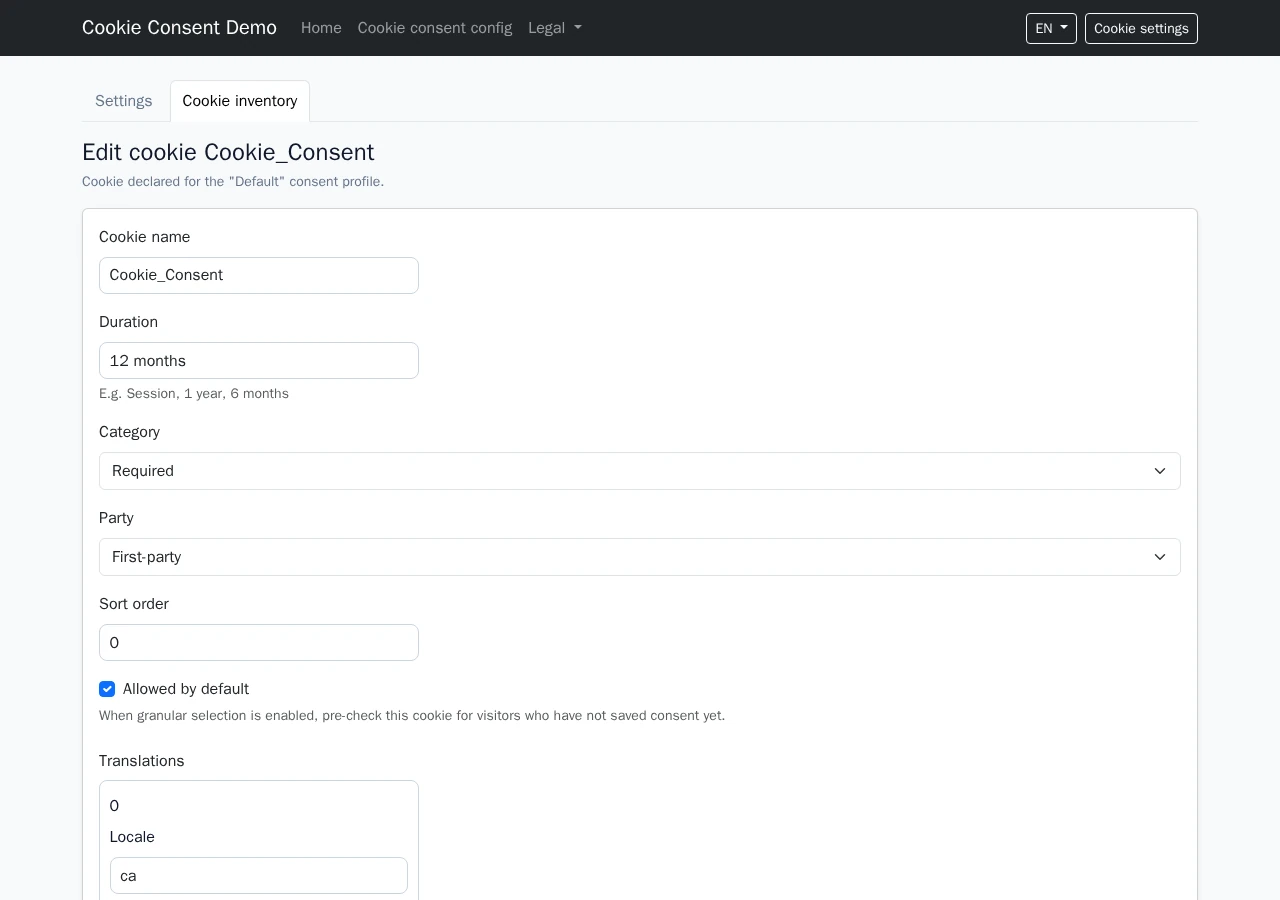
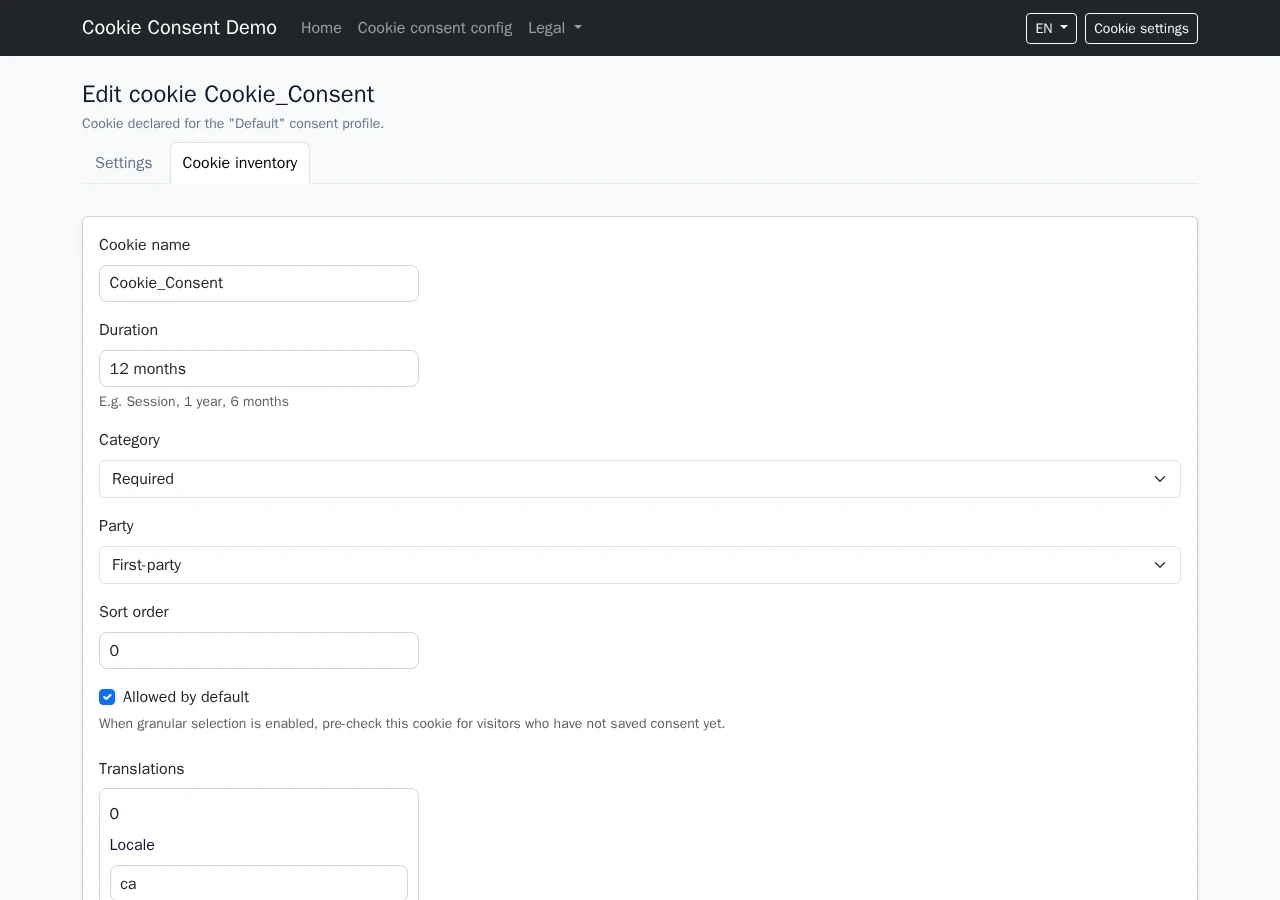
test(demo): area nav inside the page header in e2e; re-captured admin screenshots (UiKit 2.1 tabs)

diff --git a/demo/symfony8/e2e/tests/admin.spec.ts b/demo/symfony8/e2e/tests/admin.spec.ts
@@ -13,6 +13,8 @@ test.describe('CookieConsent bundle admin (UiKit page contract)', () => {
     expect(response?.ok()).toBeTruthy();
     await expect(page.locator('[data-nowo-ui-page="list"]')).toBeVisible();
     await expect(page.locator('[data-nowo-ui-region="area-nav"] a[aria-current="page"]')).toHaveAttribute('href', COOKIES);
+    // UiKit 2.1 area navigation: inside the page header, 1.x data-turbo="false" kept on the <nav>.
+    await expect(page.locator('[data-nowo-ui-region="header"] [data-nowo-ui-region="area-nav"]')).toHaveAttribute('data-turbo', 'false');
     await expect(page.locator('[data-nowo-ui-region="table"] tbody tr').first()).toBeVisible();
     await expect(page.locator('.nowo-cookie-consent')).toHaveCount(0);
   });
